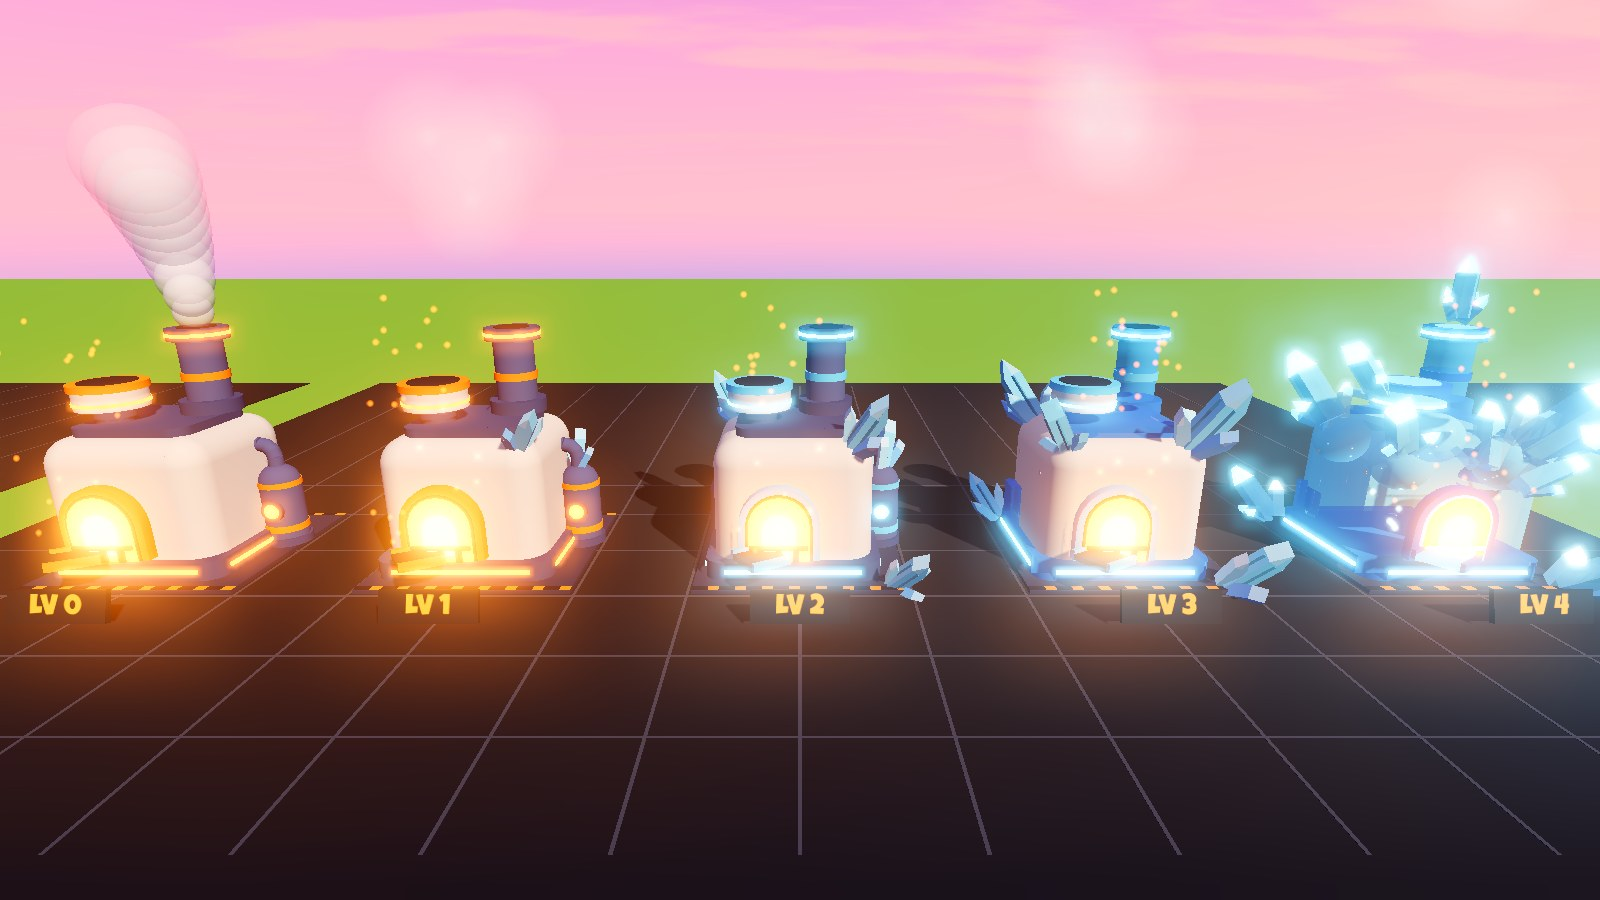
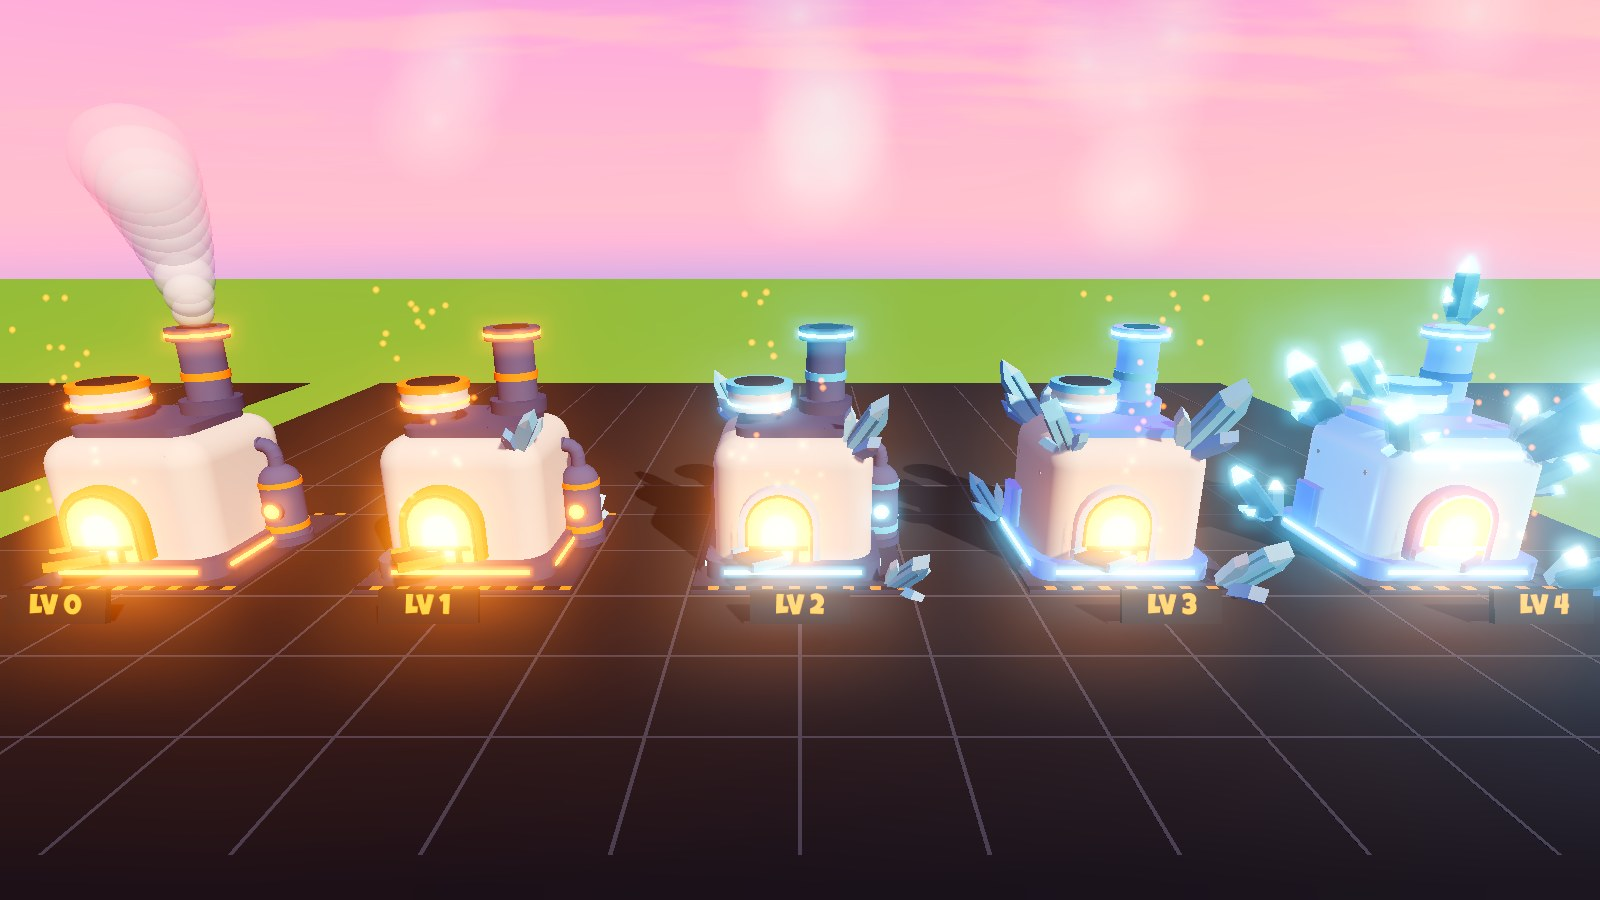
Crystal levels: no balls under crystals
The owner saw balls at the bottom of the crystals: at the max level the
see-through crystal body showed the soft boxes' round corners inside, and
some clusters grew from tank domes and beam ends. Crystal-coloured parts
now stay opaque and glossy, and those sockets moved to the floor.

diff --git a/docs/plans/MACHINES_PLAN.md b/docs/plans/MACHINES_PLAN.md
@@ -82,7 +82,10 @@ Then (same day) the first kit version looked "old, like old Minecraft"; the owne
   MachineData yet). Same contract as MachineBuilder so it can replace it.
 - Upgrade looks (KitMachines.build(id, level, theme)): L0 iron · L1 two small crystal clusters · L2 four clusters,
   the orange glow and trims turn crystal colour · L3 six bigger clusters, gunmetal frames and pipes turn crystal, a
-  soft light · L4 (max) the whole machine is crystal, a hero crystal on top, sparkles. Themes Aqua / Amethyst / Rose.
+  soft light · L4 (max) the whole machine is crystal, a hero crystal on top, sparkles. Themes Aqua / Amethyst / Rose:
+  the owner likes **all three** (how players get each colour is still open). Owner: **no ball under a crystal**, so the
+  crystal parts stay opaque and glossy (see-through parts showed the round corners inside as balls) and no crystal
+  grows from a dome or a ball end.
 - Preview: scene `kit_machines` (tools/lune/lib/kit_machines_gallery.luau, shots tools/preview/kit_machines_shots.json;
   the pads there are metal plates with glowing edges like the reference), pictures docs/screenshots/kit_*.jpg.
   Tests: tests/KitMachines.spec.luau.
